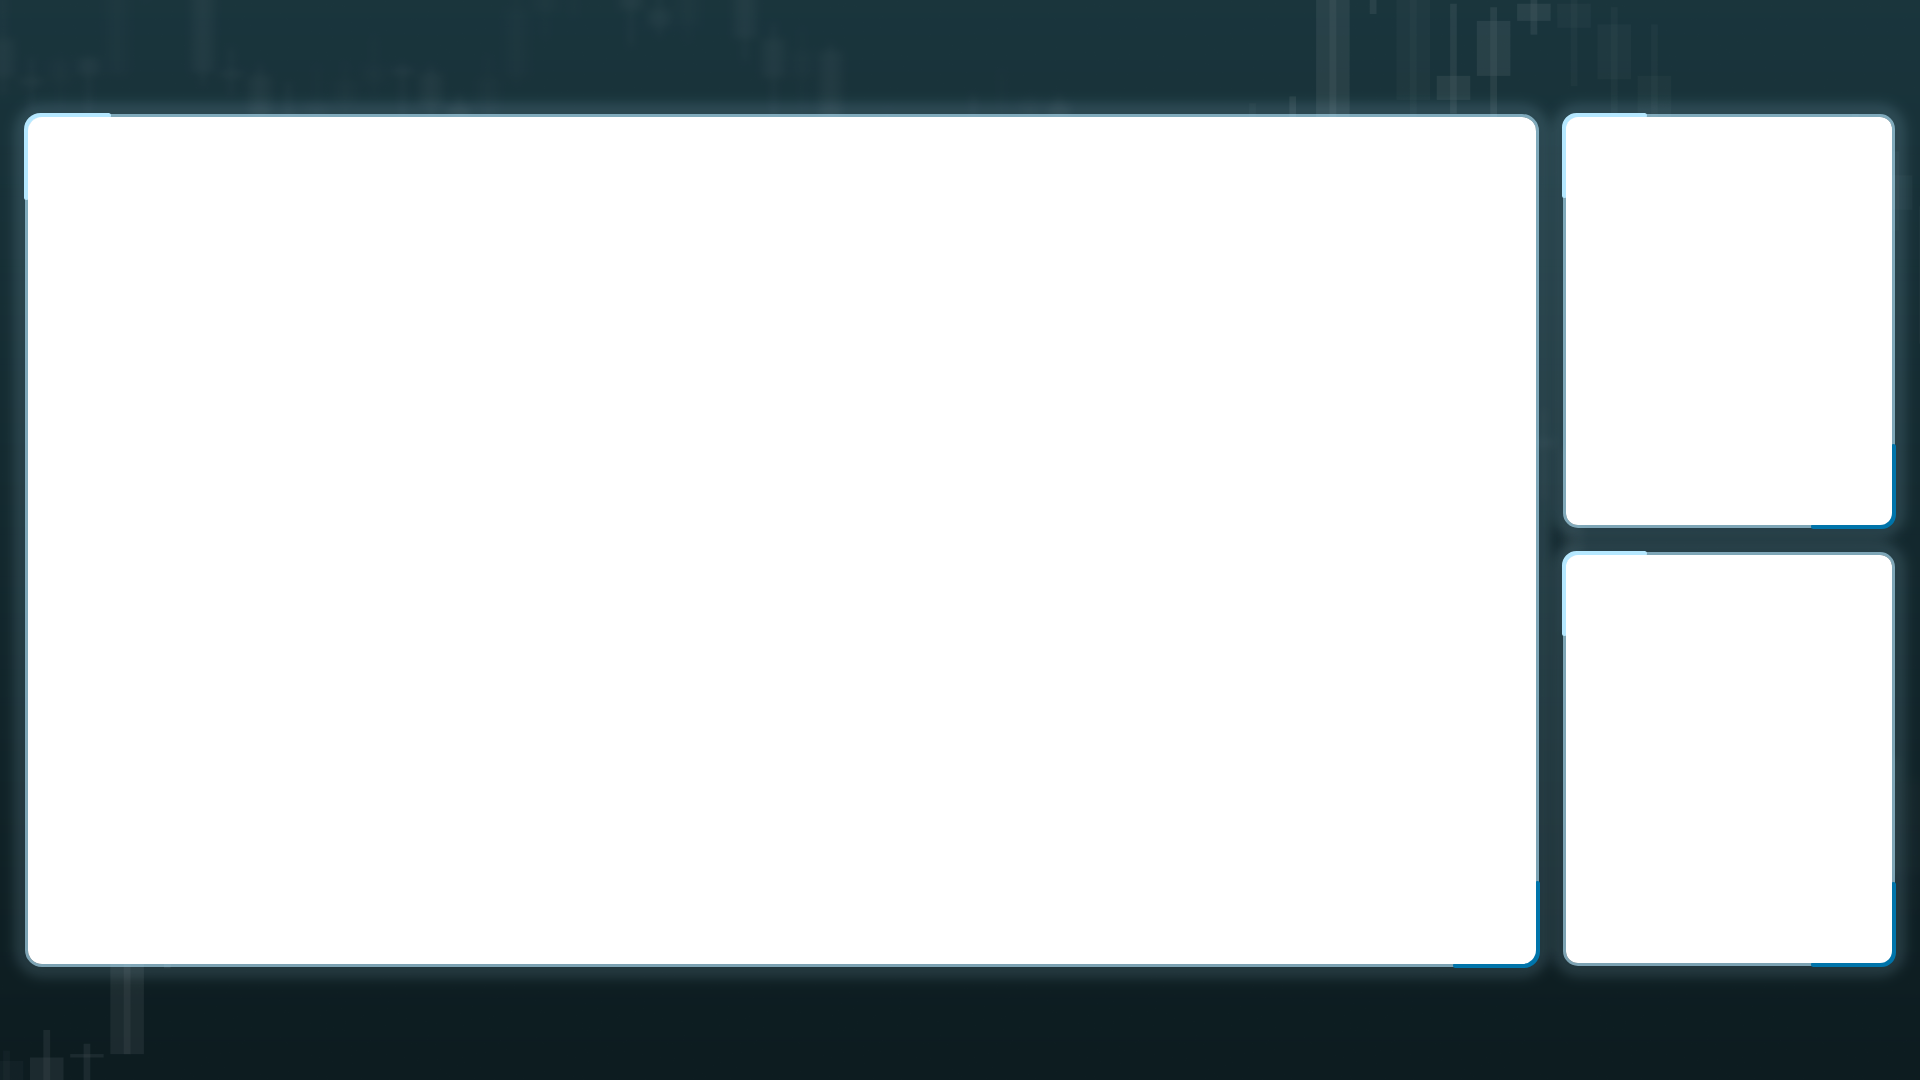
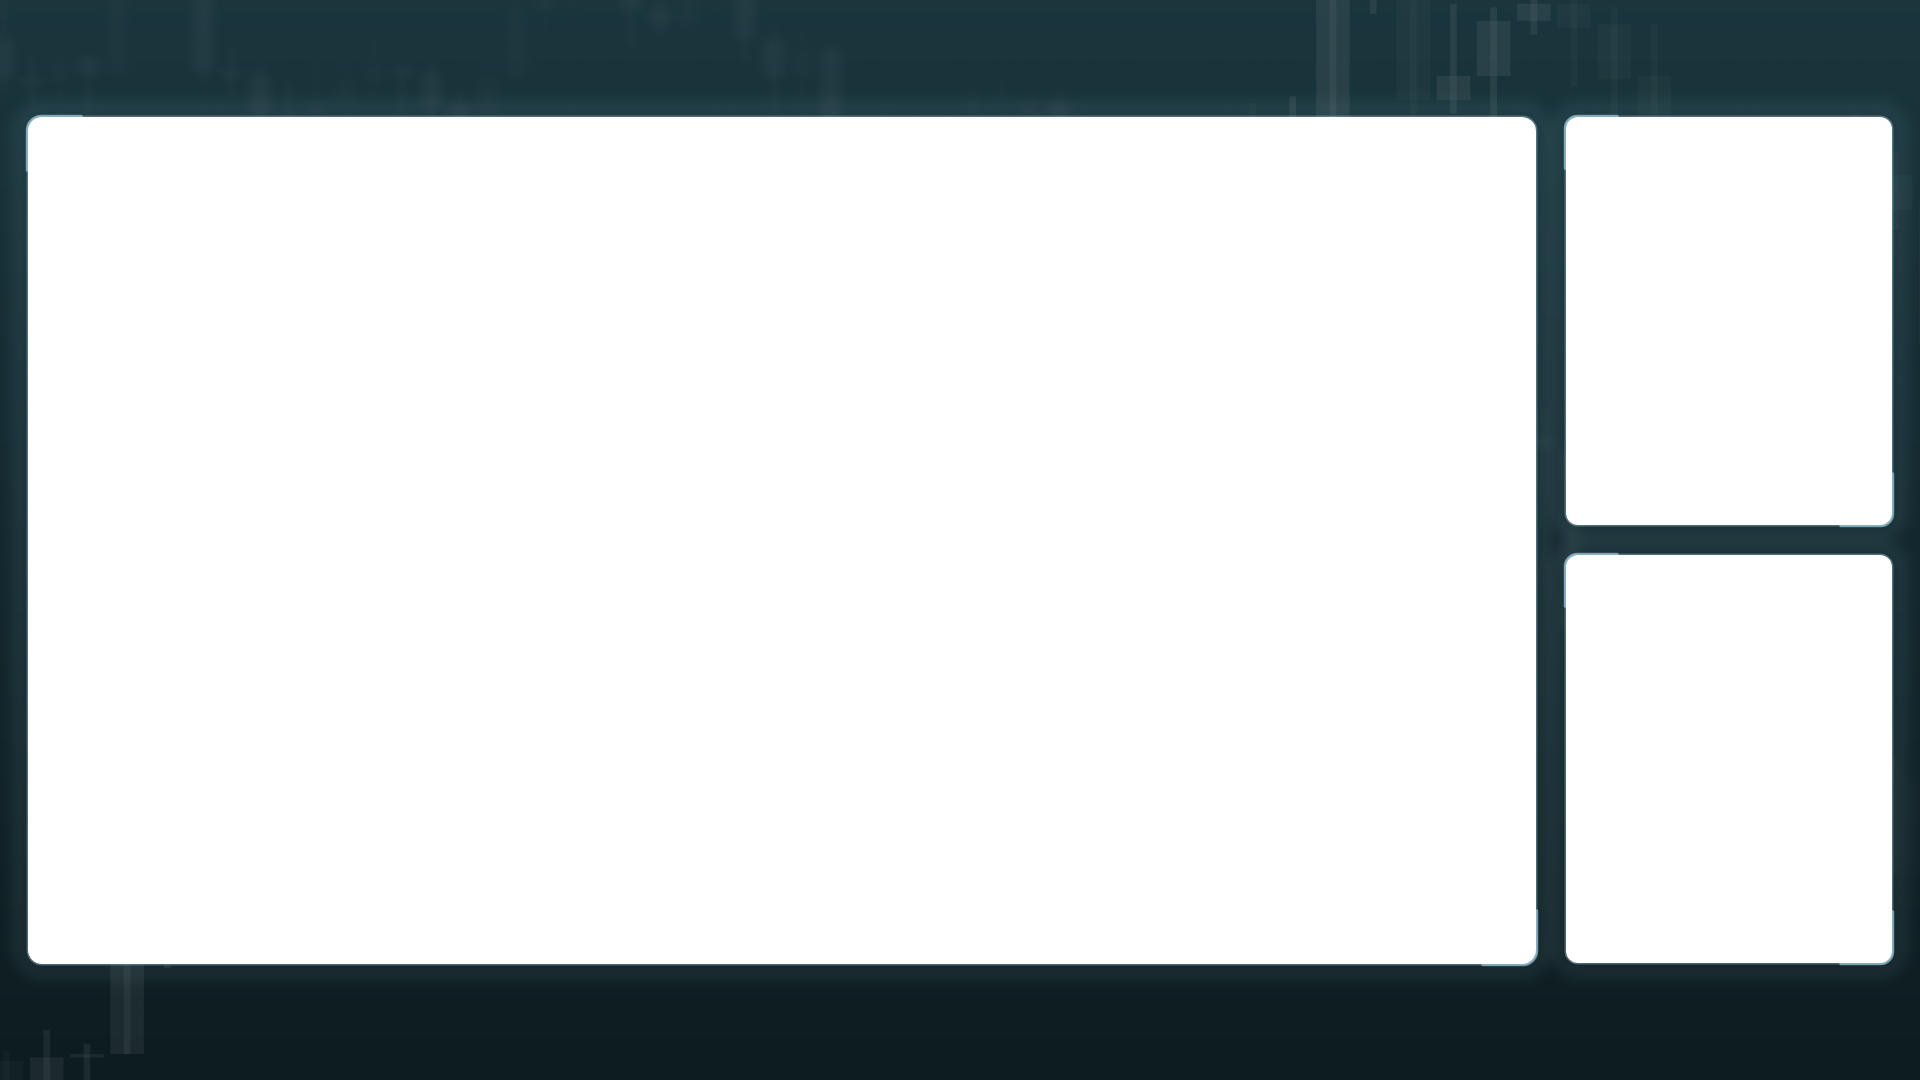
IC24 overlay: full 11-layout set (hairline) gallery

diff --git a/liveprod-ic24/index.html b/liveprod-ic24/index.html
@@ -3,7 +3,7 @@
 <head>
 <meta charset="utf-8">
 <meta name="viewport" content="width=device-width, initial-scale=1">
-<title>InvestorsClub24 — Rahmen-Harmonie (Duo)</title>
+<title>InvestorsClub24 — OBS-Overlay-Set (Hairline)</title>
 <style>
   :root { color-scheme: dark; }
   body { margin:0; background:#0f1417; color:#cdd8dd;
@@ -13,37 +13,33 @@
   .note { background:#152026; border:1px solid #23343d; border-radius:10px;
           padding:12px 16px; font-size:13px; line-height:1.5; margin-bottom:26px; }
   .note b { color:#B6E8FF; }
-  figure { margin:0 0 30px; }
+  figure { margin:0 0 26px; }
   figcaption { font-size:15px; font-weight:600; color:#fff; margin-bottom:8px; }
   figcaption span { color:#8aa0ab; font-weight:400; font-size:13px; }
-  figcaption .rec { color:#7FC4DE; font-weight:600; }
   .frame { background:#2b3338; border-radius:8px; overflow:hidden;
            box-shadow:0 8px 30px rgba(0,0,0,.5); }
   .frame img { display:block; width:100%; height:auto; }
 </style>
 </head>
 <body>
-  <h1>InvestorsClub24 — Rahmen-Harmonie</h1>
-  <p class="sub">Duo (L2) · 3 Varianten · 2026-08-25 — weicheres Zusammenspiel mit dem BG</p>
+  <h1>InvestorsClub24 — OBS-Overlay-Set</h1>
+  <p class="sub">Rahmen-Stil „Hairline" · 11 Layouts · 2026-08-25</p>
 
   <div class="note">
-    <b>Hintergrund unverändert 1:1</b> — nur der <b>Rahmen</b> wurde ruhiger/tonaler gemacht, damit er
-    nicht mehr gegen das Navy „beißt". Dunkelgraue Flächen = transparente Live-Slots.
+    <b>Hintergrund 1:1</b> (adhouse-Navy + Candlesticks, keine Farb-Überlagerung) · Rahmen tonal/ruhig
+    (Hairline) · dunkelgraue Flächen = transparente Live-Slots (Cam/Screen). Geometrie 1:1 zu Design-A.
   </div>
 
-  <figure>
-    <figcaption>A — „Whisper" <span>· nur weicher Lichtsaum, keine harte Linie (am weichsten)</span></figcaption>
-    <div class="frame"><img src="duo-whisper.png" alt="Variante A Whisper"></div>
-  </figure>
-
-  <figure>
-    <figcaption>B — „Hairline" <span class="rec">· Empfehlung</span> <span>· feine Linie + Saum + dezente Eck-Ticks, nah an den Slide-Cards</span></figcaption>
-    <div class="frame"><img src="duo-hairline.png" alt="Variante B Hairline"></div>
-  </figure>
-
-  <figure>
-    <figcaption>C — „Brand-Blau" <span>· definierter, IC24-Blau #0074AA</span></figcaption>
-    <div class="frame"><img src="duo-brand.png" alt="Variante C Brand"></div>
-  </figure>
+  <figure><figcaption>Solo (L1) <span>· 1 Speaker + Screen</span></figcaption><div class="frame"><img src="solo.png"></div></figure>
+  <figure><figcaption>Duo (L2) <span>· 2 Speaker + Screen</span></figcaption><div class="frame"><img src="duo.png"></div></figure>
+  <figure><figcaption>Trio (L3) <span>· 3 Speaker + Screen</span></figcaption><div class="frame"><img src="trio.png"></div></figure>
+  <figure><figcaption>L0a Studio <span>· Studio-Cam + Screen</span></figcaption><div class="frame"><img src="l0a-studio.png"></div></figure>
+  <figure><figcaption>Speaker allein (L0b) <span>· Vollbild-Cam</span></figcaption><div class="frame"><img src="speaker-only.png"></div></figure>
+  <figure><figcaption>Vollbild freigestellt (L5)</figcaption><div class="frame"><img src="vollbild-freigestellt.png"></div></figure>
+  <figure><figcaption>Talk-Fokus Interview <span>· 2 Cams + kleiner Screen</span></figcaption><div class="frame"><img src="interview-screen.png"></div></figure>
+  <figure><figcaption>NoScreen 2P</figcaption><div class="frame"><img src="noscreen-2p.png"></div></figure>
+  <figure><figcaption>NoScreen 3P</figcaption><div class="frame"><img src="noscreen-3p.png"></div></figure>
+  <figure><figcaption>NoScreen 4P</figcaption><div class="frame"><img src="noscreen-4p.png"></div></figure>
+  <figure><figcaption>NoScreen 5P</figcaption><div class="frame"><img src="noscreen-5p.png"></div></figure>
 </body>
 </html>
